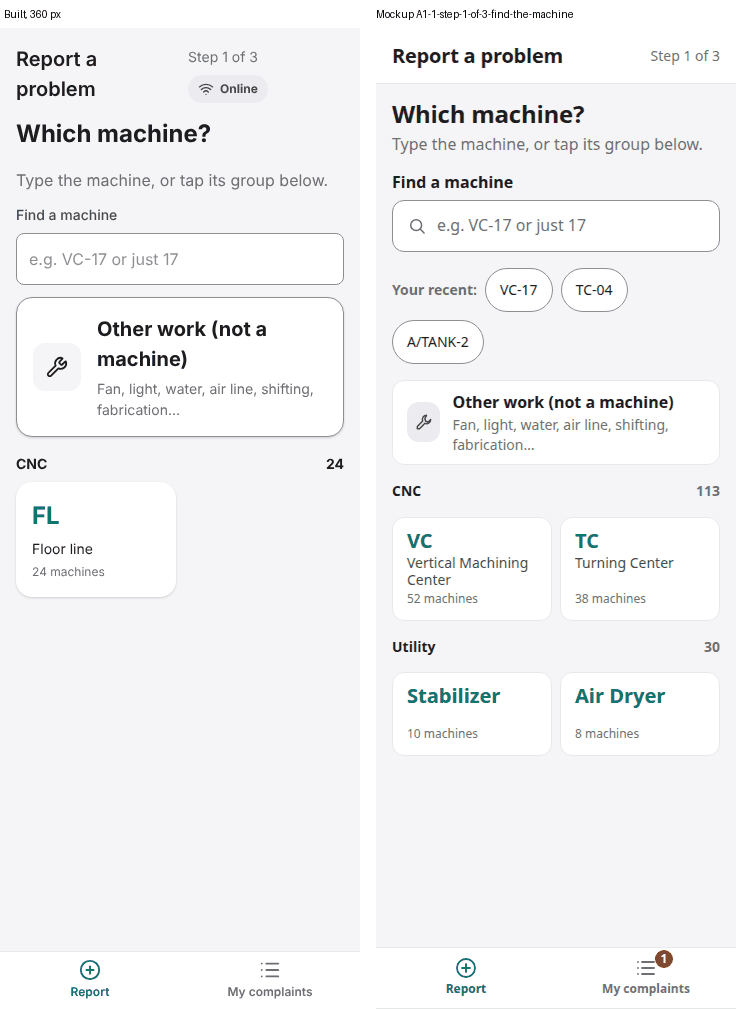
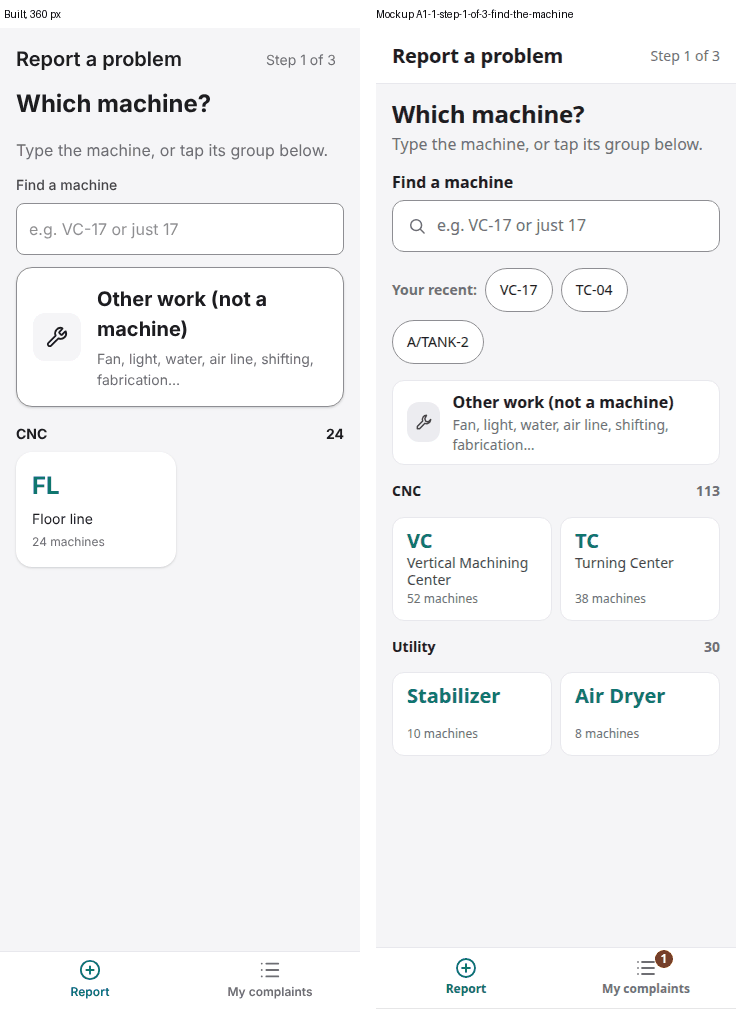
15 follow-up: the floor header hides the Online pill while connected (#207)
* 15: the floor header hides the sync pill while online (orchestrator ruling, mockups A1 to A3)

Patterns take quietOnline (PatternFrame, WizardPage, QueuePage); only the floor passes it, so the
desk keeps its pill (decision 5). The live region stays, so going offline is still announced.

Claude-Session: https://claude.ai/code/session_01KEBF28gYoZ8XReuz1auL6F

* 15: side-by-sides refreshed (no Online pill on the floor header)

Claude-Session: https://claude.ai/code/session_01KEBF28gYoZ8XReuz1auL6F

---------

diff --git a/apps/web/e2e/floor.spec.ts b/apps/web/e2e/floor.spec.ts
@@ -151,7 +151,7 @@ test('My complaints lists what this person reported with the floor words', async
   await expect(card).toContainText('Booked');
 });
 
-test('offline, the problem step says so and Send waits for a connection', async ({
+test('the header pill shows only offline; the problem step says so and Send waits for a connection', async ({
   page,
   context,
 }, testInfo) => {
@@ -160,7 +160,10 @@ test('offline, the problem step says so and Send waits for a connection', async 
   await findMachine(page, machine.code);
   await page.getByRole('button', { name: /^Machine has stopped/ }).click();
   await page.getByLabel('What is wrong?').fill('Spindle alarm');
+  // Online the floor header stays quiet (as the mockups); the pill speaks only when something is wrong.
+  await expect(page.getByTestId('sync-status')).toHaveText('');
   await context.setOffline(true);
+  await expect(page.getByTestId('sync-status')).toHaveText(/Offline/);
   await expect(page.getByText('You are offline. Connect to send this.')).toBeVisible();
   await expect(
     page.getByRole('button', { name: 'Send: machine has stopped', exact: true }),

diff --git a/apps/web/src/patterns/wizard-page.tsx b/apps/web/src/patterns/wizard-page.tsx
@@ -30,6 +30,8 @@ export interface WizardPageProps {
   onFinish: () => Promise<void | false>;
   /** Header text in place of "Step n of total" (a one-step flow names itself). */
   aside?: string;
+  /** Hide the sync pill while online (the floor). */
+  quietOnline?: boolean;
   /** The step to open on (a deep link). */
   start?: number;
   /** Shown alone once onFinish resolves. */
@@ -123,7 +125,7 @@ export function WizardPage(p: WizardPageProps) {
 
   if (done)
     return (
-      <PatternFrame title={title}>
+      <PatternFrame title={title} quietOnline={p.quietOnline}>
         <div ref={w.resultBox} tabIndex={-1}>
           {p.result}
         </div>
@@ -132,6 +134,7 @@ export function WizardPage(p: WizardPageProps) {
   return (
     <PatternFrame
       title={title}
+      quietOnline={p.quietOnline}
       back={canBack ? { label: step.back ?? t('common.back'), onClick: w.back } : undefined}
       aside={p.aside ?? t('kit.wizard.step', { n: index + 1, total: steps.length })}
     >

diff --git a/apps/web/src/patterns/sync-status.tsx b/apps/web/src/patterns/sync-status.tsx
@@ -1,12 +1,15 @@
 import { useSyncStatus } from '../data/index.js';
 import { StatusPill } from '../ui/status/status-pill.js';
 
-export function SyncStatus() {
+/** `quietOnline` (the floor): no pill while online; the live region stays so a change is announced. */
+export function SyncStatus({ quietOnline = false }: { quietOnline?: boolean }) {
   const id = useSyncStatus();
   return (
     <span role="status" data-testid="sync-status">
-      {/* eslint-disable-next-line i18next/no-literal-string -- prop value, not copy */}
-      <StatusPill group="sync" id={id} />
+      {quietOnline && id === 'online' ? null : (
+        // eslint-disable-next-line i18next/no-literal-string -- prop value, not copy
+        <StatusPill group="sync" id={id} />
+      )}
     </span>
   );
 }

diff --git a/apps/web/src/patterns/queue-page.tsx b/apps/web/src/patterns/queue-page.tsx
@@ -14,6 +14,8 @@ export interface QueuePageProps<Row> {
   rowKey: (item: Row) => string;
   /** Translated. */
   empty: string;
+  /** Hide the sync pill while online (the floor). */
+  quietOnline?: boolean;
 }
 
 /** A cursor-paged list with loading, empty, error and offline states. */
@@ -24,6 +26,7 @@ export function QueuePage<Row>({
   row,
   rowKey,
   empty,
+  quietOnline,
 }: QueuePageProps<Row>) {
   const { t } = useTranslation();
   const online = useOnline();
@@ -36,7 +39,7 @@ export function QueuePage<Row>({
     error: list.error,
   });
   return (
-    <PatternFrame title={title}>
+    <PatternFrame title={title} quietOnline={quietOnline}>
       {state === 'ready' ? (
         <Stack gap={3}>
           <ul className="flex flex-col gap-3">

diff --git a/apps/web/src/patterns/frame.tsx b/apps/web/src/patterns/frame.tsx
@@ -19,11 +19,14 @@ export function PatternFrame({
   title,
   back,
   aside,
+  quietOnline,
   children,
 }: {
   title: string;
   back?: FrameBack;
   aside?: string;
+  /** Hide the sync pill while online (the floor's mockups). */
+  quietOnline?: boolean;
   children: ReactNode;
 }) {
   const headingId = useId();
@@ -46,7 +49,7 @@ export function PatternFrame({
           </h2>
           <Inline gap={2}>
             {aside ? <span className="text-footnote text-neutral-600">{aside}</span> : null}
-            <SyncStatus />
+            <SyncStatus quietOnline={quietOnline} />
           </Inline>
         </div>
         {children}

diff --git a/apps/web/src/faces/floor/floor-shell.tsx b/apps/web/src/faces/floor/floor-shell.tsx
@@ -28,7 +28,7 @@ export function FloorShell({ children }: { children: ReactNode }) {
 export function FloorLoading({ title }: { title?: string }) {
   const { t } = useTranslation();
   return (
-    <PatternFrame title={title ?? t('floor.title')}>
+    <PatternFrame title={title ?? t('floor.title')} quietOnline>
       <Loading>
         <Stack gap={3}>
           {/* eslint-disable i18next/no-literal-string -- shape names, not copy */}

diff --git a/apps/web/src/faces/floor/my-complaints.tsx b/apps/web/src/faces/floor/my-complaints.tsx
@@ -57,6 +57,7 @@ export function MyComplaints() {
     <FloorShell>
       <QueuePage
         title={t('floor.complaints')}
+        quietOnline
         resource={tickets}
         query={{ raisedBy: data.me.actingPersonId }}
         row={(ticket) => <Complaint data={data} ticket={ticket} />}

diff --git a/apps/web/src/faces/floor/other-work.tsx b/apps/web/src/faces/floor/other-work.tsx
@@ -56,6 +56,7 @@ export function OtherWork() {
     <FloorShell>
       <WizardPage
         title={t('floor.title')}
+        quietOnline
         aside={t('floor.workRequest')}
         steps={[{ ...step, action: t('reportFloor.sendWork'), ready }]}
         offlineAllowed={false}

diff --git a/apps/web/src/faces/floor/report.tsx b/apps/web/src/faces/floor/report.tsx
@@ -57,6 +57,7 @@ function ReportFlow(p: { data: FloorData; deepLink: string | null; onAnother: ()
     <>
       <WizardPage
         title={t('floor.title')}
+        quietOnline
         steps={steps}
         start={machine ? 1 : 0}
         offlineAllowed={false}

diff --git a/changes/90-floor-quiet-online.md b/changes/90-floor-quiet-online.md
@@ -1,0 +1,1 @@
+- The floor's screens no longer show an "Online" pill in the header while the phone is connected, as the approved mockups draw it. The pill appears only when something needs attention: offline, sending, or a draft.
